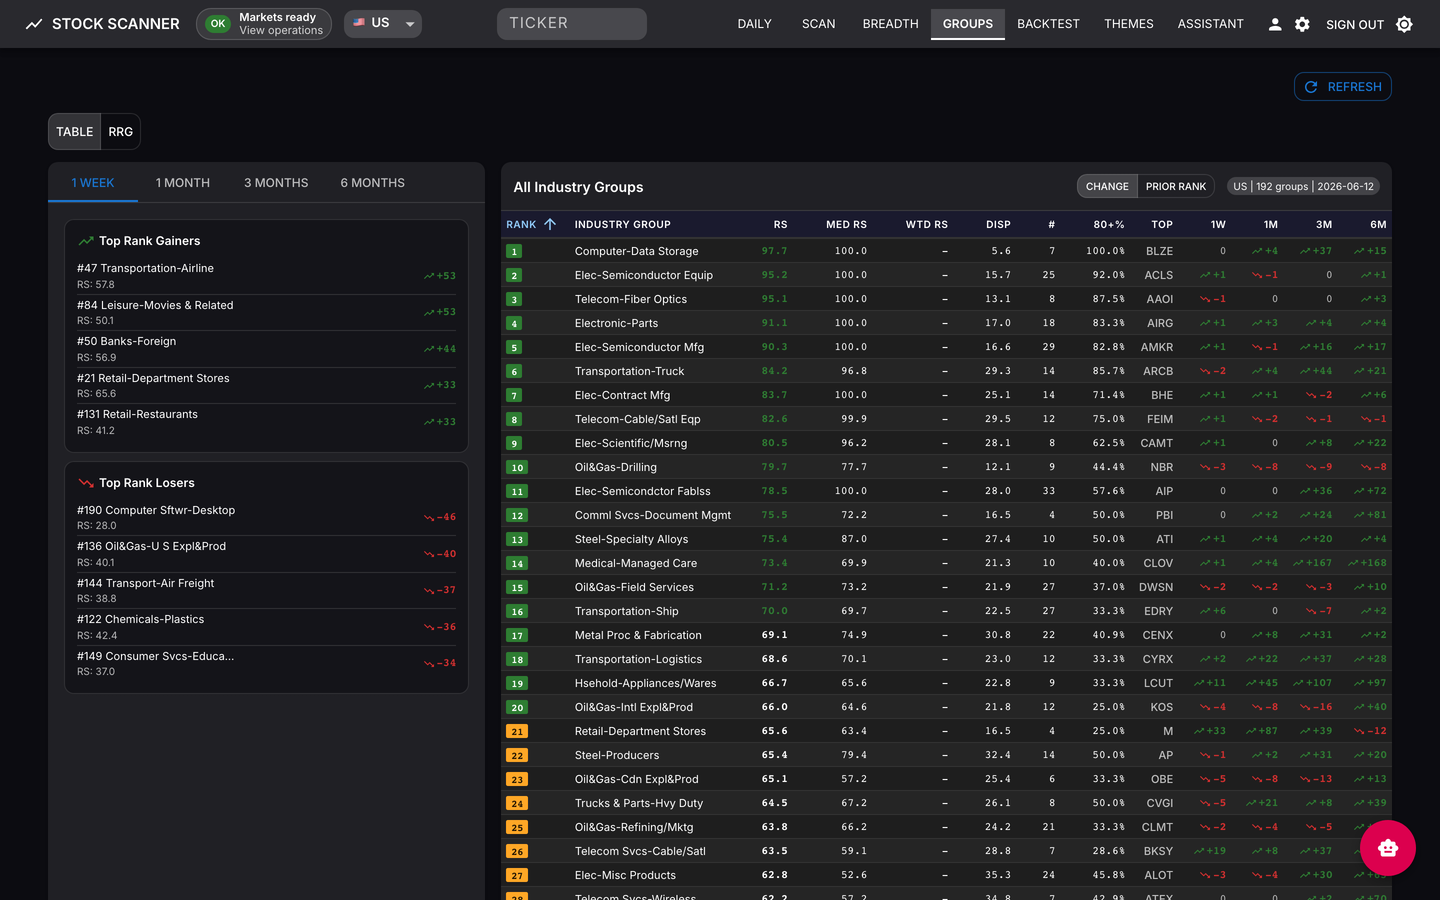
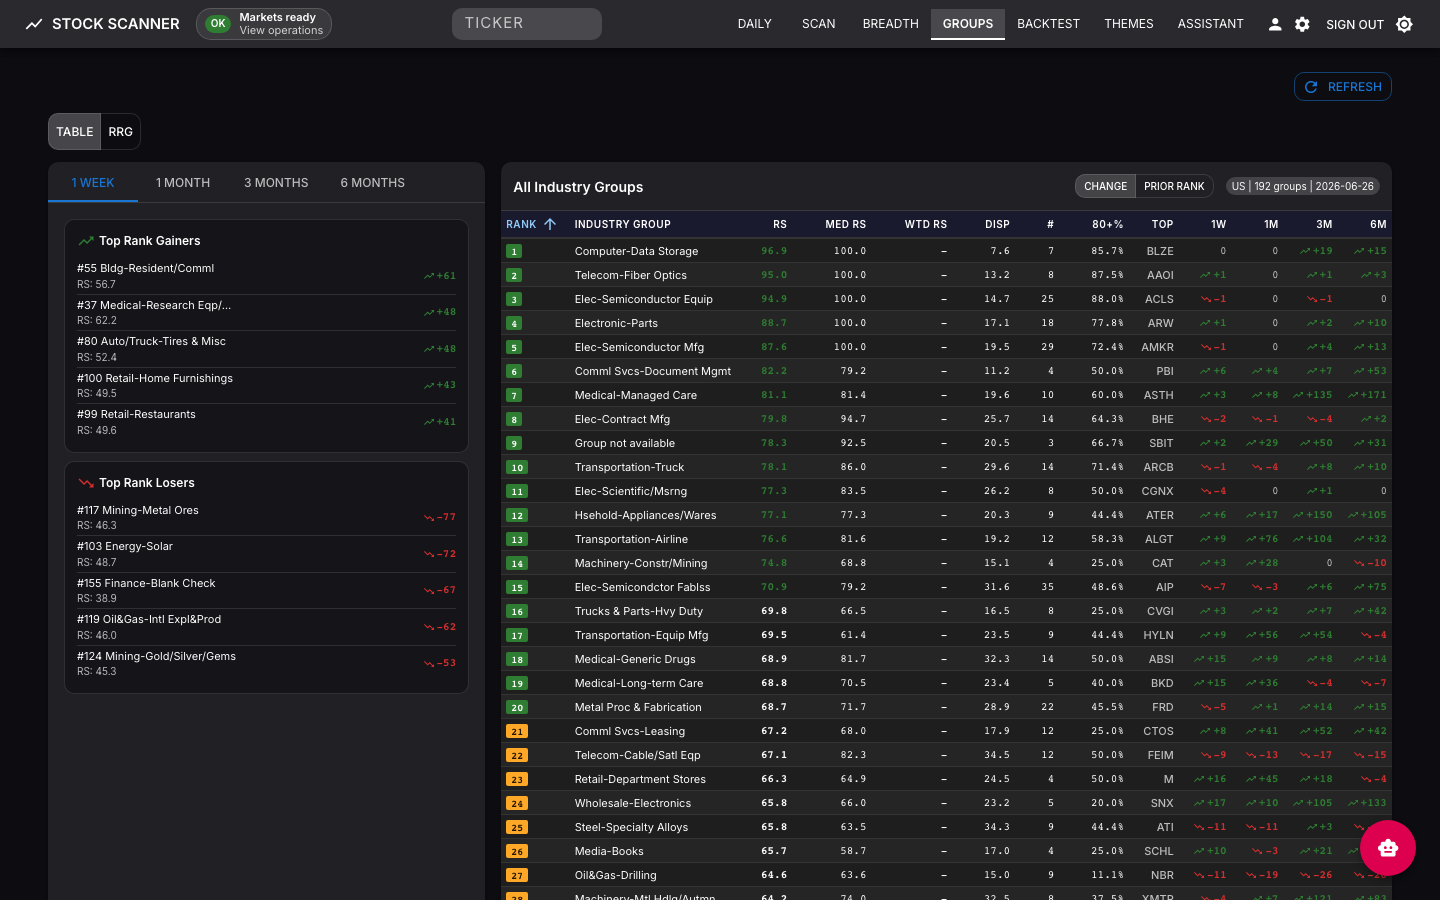
Document group detail charts

diff --git a/backend/tests/unit/test_groups_api_no_data.py b/backend/tests/unit/test_groups_api_no_data.py
@@ -245,6 +245,58 @@ async def test_get_group_detail_supports_non_us_market_scope(monkeypatch, client
 
 
 @pytest.mark.asyncio
+async def test_get_group_detail_accepts_pre_scoped_us_payload(monkeypatch, client):
+    from app.services import server_auth
+
+    monkeypatch.setattr(server_auth.settings, "server_auth_enabled", False)
+
+    class _FakeGroupRankService:
+        def get_group_history(self, db, group, days=180):  # noqa: ARG002
+            assert group == "Computer-Data Storage"
+            return {
+                "market_scope": "US",
+                "industry_group": "Computer-Data Storage",
+                "current_rank": 1,
+                "current_avg_rs": 96.9,
+                "current_median_rs": 100.0,
+                "current_weighted_avg_rs": 98.0,
+                "current_rs_std_dev": 7.6,
+                "num_stocks": 7,
+                "pct_rs_above_80": 85.7,
+                "top_symbol": "BLZE",
+                "top_rs_rating": 100.0,
+                "rank_change_1w": 0,
+                "rank_change_1m": 0,
+                "rank_change_3m": 19,
+                "rank_change_6m": 15,
+                "history": [
+                    {
+                        "date": "2026-06-26",
+                        "rank": 1,
+                        "avg_rs_rating": 96.9,
+                        "num_stocks": 7,
+                    }
+                ],
+                "stocks": [],
+            }
+
+    monkeypatch.setattr(
+        "app.api.v1.groups._get_group_rank_service",
+        lambda: _FakeGroupRankService(),
+    )
+
+    response = await client.get(
+        "/api/v1/groups/rankings/detail",
+        params={"market": "US", "group": "Computer-Data Storage"},
+    )
+
+    assert response.status_code == 200
+    payload = response.json()
+    assert payload["market_scope"] == "US"
+    assert payload["industry_group"] == "Computer-Data Storage"
+
+
[email redacted]
 async def test_get_groups_bootstrap_supports_non_us_market_scope(monkeypatch, client):
     from app.services import server_auth
 

diff --git a/backend/app/api/v1/groups.py b/backend/app/api/v1/groups.py
@@ -219,6 +219,14 @@ def _rrg_scope_has_data(payload: dict | None) -> bool:
     return bool((payload or {}).get("groups"))
 
 
+def _group_detail_response(detail: dict, *, market: str) -> GroupDetailResponse:
+    payload = dict(detail)
+    for key, value in market_scope_tag(market).items():
+        if payload.get(key) is None:
+            payload[key] = value
+    return GroupDetailResponse(**payload)
+
+
 @router.get("/rrg/scopes", response_model=RRGBundleResponse)
 async def get_rrg_scopes(
     tail_weeks: int = Query(8, ge=2, le=20, description="Number of weekly tail points"),
@@ -427,7 +435,7 @@ async def get_group_detail(
             detail=f"No data found for industry group '{group}'"
         )
 
-    return GroupDetailResponse(**detail, **market_scope_tag(normalized_market))
+    return _group_detail_response(detail, market=normalized_market)
 
 
 @router.post("/rankings/calculate", response_model=TaskResponse)

diff --git a/docs/LIVE_APP_GUIDE.md b/docs/LIVE_APP_GUIDE.md
@@ -282,10 +282,14 @@ The **Stockbee MM** tab on the Daily page surfaces these same daily counts in a 
 *Group Rankings — ranked table with top movers*
 
 - **Movers** — rank change over 1W / 1M / 3M / 6M.
-- **Group detail** — rank-history chart plus the constituent table.
+- **Group detail** — click a group row to open the detail modal. The **Overview** tab combines the one-year rank-history chart, 1W/1M/3M/6M rank-change cards, and the constituent-stock table with 30-day price and RS sparklines.
+- **Constituent charts** — the **Charts** tab renders compact 6-month candlestick charts for the group's constituents, two charts per row on desktop and one per row on small screens.
 
 ![Group detail modal](screenshots/group-detail.png)
-*Group detail — rank history and constituents*
+*Group detail — rank history, rank-change cards, and constituent stocks with price/RS sparklines*
+
+![Group detail Charts tab with constituent stock charts](screenshots/group-detail-charts.png)
+*Group detail Charts tab — constituent stock charts in a two-column grid*
 
 ### Relative Rotation Graph (RRG)
 